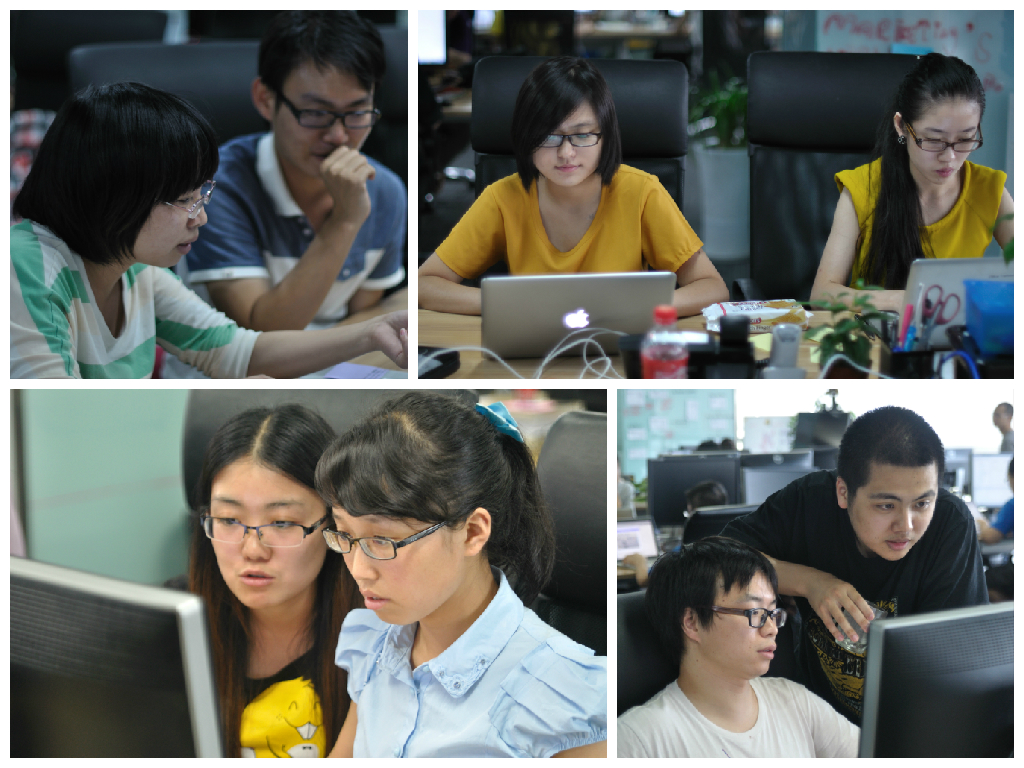
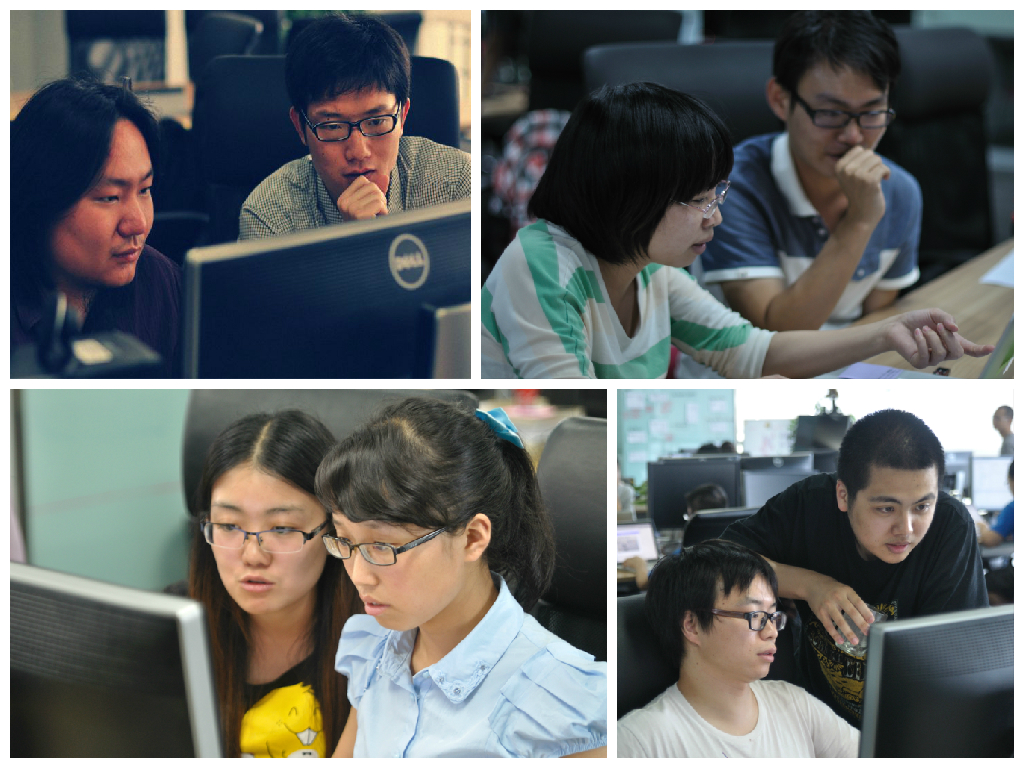
[#10] - Wording change for Company pages and added new images.

diff --git a/src/pages/Company/Training.js b/src/pages/Company/Training.js
@@ -3,13 +3,13 @@ import React from 'react'
 import NavSubTitle from '../../components/NavSubTitle'
 import Image from '../../components/Image'
 
-import './Training.css'
+import './Training.less'
 
-const Activity = () => (
-  <div className="container">
+const Training = () => (
+  <div className="container Training">
     <NavSubTitle title="TWU"/>
     <p>
-      TWU，即ThoughtWorks University ，是ThoughtWorks针对世界各地的应届毕业生推出的为期五周的“公派留学”。不同国籍、不同office的ThoughtWorkers将在印度齐聚一堂，共同度过五周的难忘时光。
+      TWU，即 ThoughtWorks University，ThoughtWorks 针对世界各地的应届毕业生推出的为期五周的“公派留学”。不同国籍、不同office的ThoughtWorkers将在印度齐聚一堂，共同度过五周的难忘时光。
       <Image image={'TWU1.jpg'}/>
     </p>
     <p>
@@ -18,9 +18,9 @@ const Activity = () => (
     </p>
     <NavSubTitle title="Buddy&Sponsor"/>
     <p>
-      新人入职后，都会被分配一个TA在TW的“领路人”，我们称之为“Buddy”；
+      新人入职后，都会被分配一个TA在TW的“领路人”，我们称之为“Buddy”。
+      <div className="description"><strong>Buddy（小伙伴）是什么呢？</strong></div>
       <ul className="buddy-sponsor">
-        <li>Buddy（小伙伴）是什么呢？</li>
         <li>TW文化的典型</li>
         <li>新人分诊台，咨询的窗口</li>
         <li>值得信赖的伙伴</li>
@@ -29,12 +29,13 @@ const Activity = () => (
       </ul>
     </p>
     <p>
-      入职六个月后，针对顺利转正的员工，公司会邀请进入Sponsor机制；通过考核，你就有机会成为Sponsor，Sponsor参与什么呢？
+      入职六个月后，针对顺利转正的员工，只要通过考核，你就有机会成为Sponsor。
+      <div className="description"><strong>Sponsor参与什么呢？</strong></div>
       <ul className="buddy-sponsor">
-        <li>内部新的机会的建议;</li>
-        <li>帮助寻找新的资源,创造新的机会;</li>
-        <li>建议参加的内部外部培训课程;</li>
-        <li>帮助 sponsee 成为 sponsor ；</li>
+        <li>内部新的机会的建议</li>
+        <li>帮助寻找新的资源,创造新的机会</li>
+        <li>建议参加的内部外部培训课程</li>
+        <li>帮助 sponsee 成为 sponsor</li>
       </ul>
       <Image image={'Buddy&Sponsor.jpg'}/>
     </p>
@@ -48,4 +49,4 @@ const Activity = () => (
   </div>
 )
 
-export default Activity
+export default Training

diff --git a/src/pages/Company/Introduction.js b/src/pages/Company/Introduction.js
@@ -61,10 +61,10 @@ const Introduction = () => (
 
     <NavSubTitle title="公司核心业务"/>
     <p>
-      1、交付：研发人员会为客户量身定制软件开发解决方案，同时也会直接为客户交付这些最具核心价值的软件。在开发过程中，很多客户为以被ThoughtWorks影响为荣，他们的CTO、技术高管会轮换在我们的办公室里一直和我们一起工作，紧密交流和沟通，共同交付。
+      1、<strong>交付</strong>：研发人员会为客户量身定制软件开发解决方案，同时也会直接为客户交付这些最具核心价值的软件。在开发过程中，很多客户为以被ThoughtWorks影响为荣，他们的CTO、技术高管会轮换在我们的办公室里一直和我们一起工作，紧密交流和沟通，共同交付。
     </p>
     <p>
-      2、咨询培训：咨询师会在客户现场，帮助改善企业的IT组织，改进软件开发方法，以软件带动企业业务发展。我们的咨询类型包括：IT组织优化- 技术咨询- 测试策略- 客户体验- 敏捷转型。
+      2、<strong>咨询培训</strong>：咨询师会在客户现场，帮助改善企业的IT组织，改进软件开发方法，以软件带动企业业务发展。我们的咨询类型包括：IT组织优化- 技术咨询- 测试策略- 客户体验- 敏捷转型。
     </p>
 
     <NavSubTitle title="思窝牛人在身边"/>
@@ -76,12 +76,8 @@ const Introduction = () => (
     </div>
     <NavSubTitle title="更多了解ThoughtWorks"/>
     <p>
-      <p>
-        视频链接：<a href="http://v.qq.com/page/v/k/r/v0310xz6qkr.html">http://v.qq.com/page/v/k/r/v0310xz6qkr.html</a>
-      </p>
-      <p>
-        <iframe className="col-sm-12 col-xs-12" src="http://v.qq.com/iframe/player.html?vid=v0310xz6qkr&tiny=0&auto=0"></iframe>
-      </p>
+      <iframe className="col-sm-12 col-xs-12" src="http://v.qq.com/iframe/player.html?vid=v0310xz6qkr&tiny=0&auto=0"></iframe>
+      <a className="text-center" href="http://v.qq.com/page/v/k/r/v0310xz6qkr.html">http://v.qq.com/page/v/k/r/v0310xz6qkr.html</a>
     </p>
   </div>
 )

diff --git a/src/pages/Recruit/FAQ.js b/src/pages/Recruit/FAQ.js
@@ -76,7 +76,7 @@ const Position = () => (
         <strong>ThoughtWorks是一家什么公司？</strong>
         <div>
           <p>
-            ThoughtWorks，中文名称［思特沃克软件技术有限公司］，是一家全球软件设计与定制的领袖企业。ThoughtWorks 自成立以来，一直处于技术和思想的前沿，致力于用软件技术帮忙客户解决棘手的问题，以获得商业上的成功！每一个 ThoughtWorker 心中也都有用软件知识和技术使整个人类社会变得更美好的梦想！
+            ThoughtWorks，中文名称「思特沃克软件技术有限公司」，是一家全球软件设计与定制的领袖企业。ThoughtWorks 自成立以来，一直处于技术和思想的前沿，致力于用软件技术帮忙客户解决棘手的问题，以获得商业上的成功！每一个 ThoughtWorker 心中也都有用软件知识和技术使整个人类社会变得更美好的梦想！
             关于公司详细信息可登录 <br/><a href="http://www.thoughtworks.com/cn">http://www.thoughtworks.com/cn</a> 浏览获取！
           </p>
         </div>

diff --git a/src/pages/Company/Office.js b/src/pages/Company/Office.js
@@ -3,7 +3,7 @@ import React from 'react'
 import NavSubTitle from '../../components/NavSubTitle'
 import Image from '../../components/Image'
 
-import './Training.css'
+import './Training.less'
 
 const renderOffice = (office, index) => (
   <div key={index}>

diff --git a/src/pages/Company/Training.less b/src/pages/Company/Training.less
@@ -1,0 +1,17 @@
+.Training {
+
+  .buddy-sponsor li {
+    margin-left: -20px;
+  }
+
+  .description {
+    margin-top: 10px;
+    line-height: 1.5em;
+    margin-bottom: 5px;
+
+    strong {
+      font-weight: 600;
+      color: #2bb8cf;
+    }
+  }
+}
